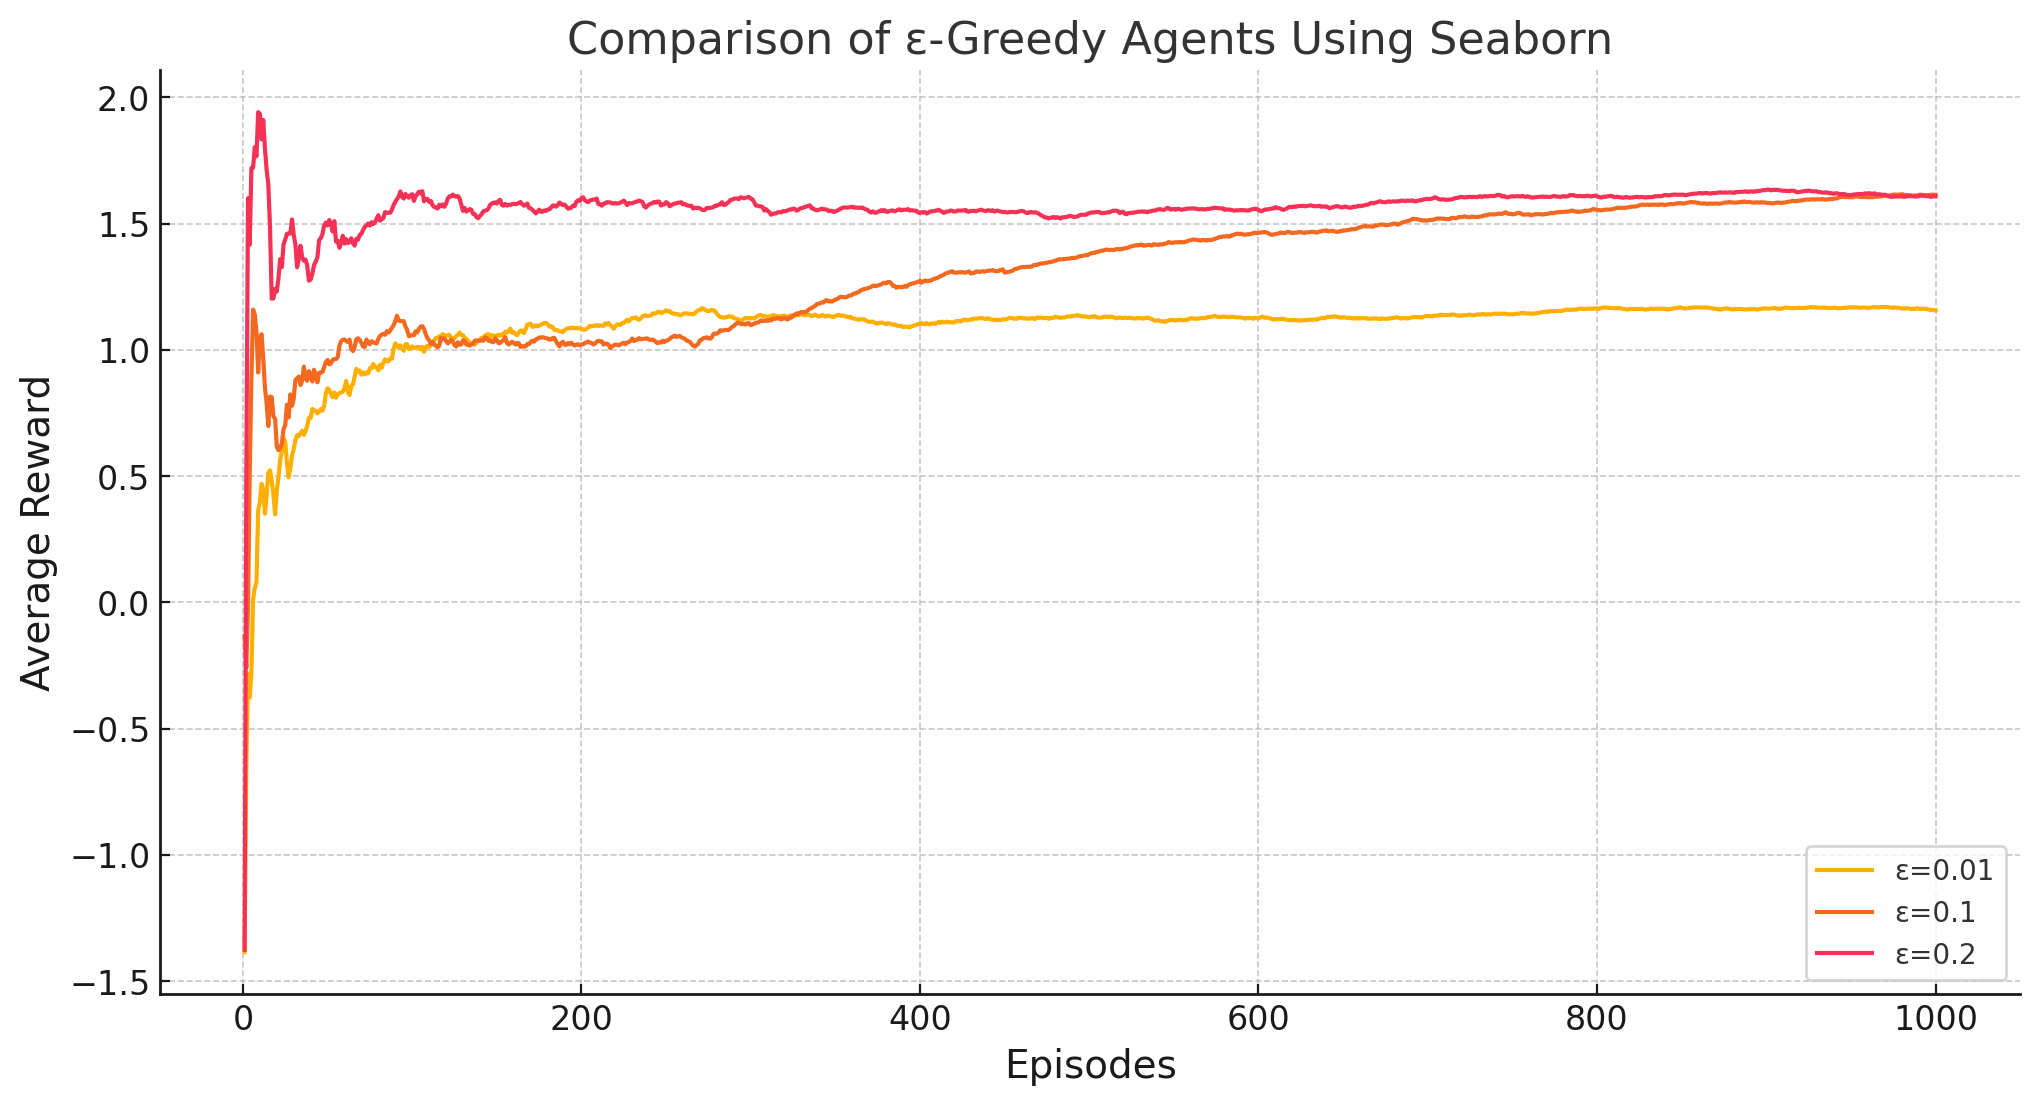
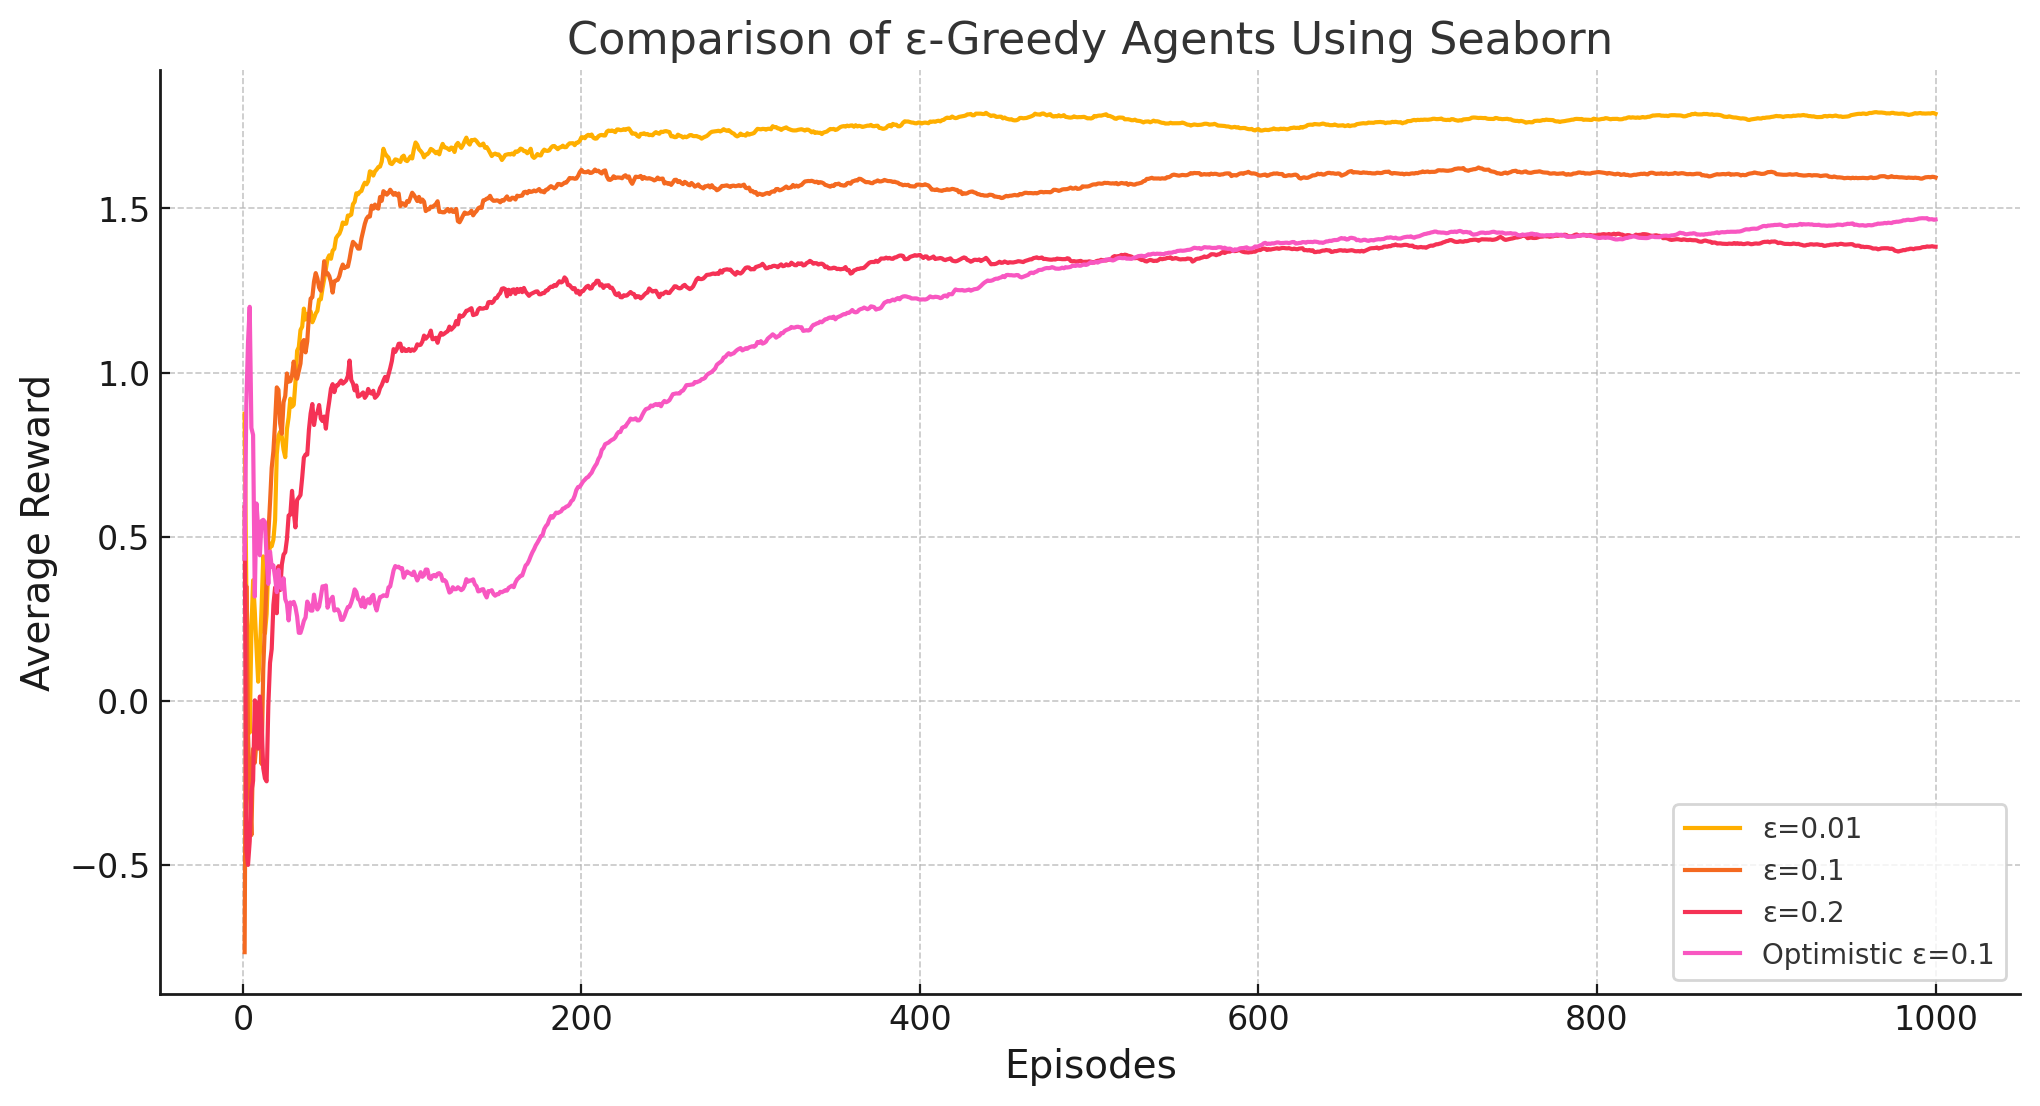
Added Optimistic Initial Valued Agent

diff --git a/visualization.py b/visualization.py
@@ -1,20 +1,22 @@
-import numpy as np
 import matplotlib.pyplot as plt
 import seaborn as sns
+import numpy as np
 
 def plot_comparison_seaborn(rewards, epsilon_values):
     
     """
-    Plot the comparison of average rewards over episodes for different epsilon values using Seaborn.
+    Plot the comparison of average rewards over episodes for different epsilon values using Seaborn, including any agents with optimistic initial values.
 
     Parameters:
         rewards (np.array): Array containing rewards for each episode for each agent.
-        epsilon_values (list): List of epsilon values used for different agents.
+        epsilon_values (list): List of epsilon values used for different agents, including an extra label for the optimistic agent.
     """
     
     plt.figure(figsize=(12, 6))
+    episodes = rewards.shape[1]
     for i in range(rewards.shape[0]):
-        sns.lineplot(np.arange(1, rewards.shape[1] + 1), np.cumsum(rewards[i]) / np.arange(1, rewards.shape[1] + 1), label=f'ε={epsilon_values[i]}')
+        label = f'ε={epsilon_values[i]}' if i < len(epsilon_values) - 1 else 'Optimistic ε=0.1'
+        sns.lineplot(np.arange(1, episodes + 1), np.cumsum(rewards[i]) / np.arange(1, episodes + 1), label=label)
     plt.xlabel('Episodes', fontsize=14)
     plt.ylabel('Average Reward', fontsize=14)
     plt.title('Comparison of ε-Greedy Agents Using Seaborn', fontsize=16)
@@ -25,24 +27,25 @@ def plot_comparison_seaborn(rewards, epsilon_values):
 def plot_color_adjusted_grouped_selections_seaborn(selections, epsilon_values):
     
     """
-    Plot the number of times each arm was selected by each agent in a grouped bar chart with adjusted colors for better distinction using Seaborn.
+    Plot the number of times each arm was selected by each agent in a grouped bar chart using Seaborn, including agents with optimistic initial values.
 
     Parameters:
         selections (np.array): Array containing the count of selections for each arm for all agents.
-        epsilon_values (list): List of ε-values used in the simulation to label the agents.
+        epsilon_values (list): List of ε-values used in the simulation to label the agents, including an extra label for the optimistic agent.
     """
     
     plt.figure(figsize=(14, 8))
-    arms = np.arange(selections.shape[1])  # Arms are the base for the x-axis
+    arms = np.arange(selections.shape[1])
     width = 0.25  # Width of each bar, optimally adjusted for visibility and contrast
     palette = sns.color_palette("Set2", len(epsilon_values))
     
     for i, agent_selections in enumerate(selections):
-        plt.bar(arms + i * width, agent_selections, width=width, label=f'ε={epsilon_values[i]}', color=palette[i])
+        label = f'ε={epsilon_values[i]}' if i < len(epsilon_values) - 1 else 'Optimistic ε=0.1'
+        plt.bar(arms + i * width, agent_selections, width=width, label=label, color=palette[i])
     
     plt.xlabel('Arms', fontsize=14)
     plt.ylabel('Number of times selected', fontsize=14)
-    plt.title('Color Adjusted Grouped Bar Chart of Arm Selections by ε-Greedy Agents', fontsize=16)
-    plt.xticks(arms + width, np.arange(selections.shape[1]))  # Centering the x-ticks between the grouped bars
+    plt.title('Grouped Bar Chart of Arm Selections by ε-Greedy Agents', fontsize=16)
+    plt.xticks(arms + width * len(epsilon_values) / 2, arms)
     plt.legend(title='Agent ε-value')
     plt.show()

diff --git a/main.py b/main.py
@@ -2,10 +2,10 @@ import numpy as np
 from agent import Agent
 from visualization import plot_comparison_seaborn, plot_color_adjusted_grouped_selections_seaborn
 
-def run_simulation(n_arms, epsilon_values, alpha, episodes, true_means):
+def run_simulation(n_arms, epsilon_values, alpha, episodes, true_means, optimistic_initial=5.0):
     
     """
-    Run the multi-armed bandit simulation with different epsilon-greedy agents.
+    Run the multi-armed bandit simulation with different epsilon-greedy agents, including an agent with optimistic initial values.
 
     Parameters:
         n_arms (int): Number of arms in the bandit.
@@ -13,17 +13,21 @@ def run_simulation(n_arms, epsilon_values, alpha, episodes, true_means):
         alpha (float): Step size for updating estimates.
         episodes (int): Number of episodes to run the simulation.
         true_means (np.array): True reward means for each arm.
+        optimistic_initial (float): Initial high estimate for the optimistic agent.
 
     Returns:
         tuple: Tuple containing arrays of rewards and selections for each agent.
     """
     
     agents = [Agent(n_arms, epsilon, alpha, true_means) for epsilon in epsilon_values]
+    agents.append(Agent(n_arms, 0.1, alpha, true_means, optimistic_initial))  # Adding an optimistic agent
     rewards = np.zeros((len(agents), episodes))
     selections = np.zeros((len(agents), n_arms))
 
     for episode in range(episodes):
+        
         for index, agent in enumerate(agents):
+            
             arm = agent.choose_arm()
             selections[index, arm] += 1
             reward = agent.get_reward(arm)
@@ -39,7 +43,10 @@ if __name__ == "__main__":
     alpha = 0.1
     episodes = 1000
     true_means = np.random.randn(n_arms)
+    optimistic_initial = 5.0  # High initial value for optimistic exploration
 
-    rewards, selections = run_simulation(n_arms, epsilon_values, alpha, episodes, true_means)
-    plot_comparison_seaborn(rewards, epsilon_values)
-    plot_color_adjusted_grouped_selections_seaborn(selections, epsilon_values)
+    rewards, selections = run_simulation(n_arms, epsilon_values, alpha, episodes, true_means, optimistic_initial)
+    
+    epsilon_labels = epsilon_values + [0.1]  # Including the optimistic agent's ε in the labels
+    plot_comparison_seaborn(rewards, epsilon_labels)
+    plot_color_adjusted_grouped_selections_seaborn(selections, epsilon_labels)

diff --git a/agent.py b/agent.py
@@ -3,23 +3,25 @@ import numpy as np
 class Agent:
     
     """
-    Represents an ε-greedy agent for the multi-armed bandit problem.
+    Represents an ε-greedy agent for the multi-armed bandit problem, with an option for optimistic initial values.
 
     Attributes:
         n_arms (int): Number of arms in the bandit.
         epsilon (float): Probability of exploring.
         alpha (float): Step size for updating estimates.
         true_means (np.array): True reward means for each arm.
-        estimates (np.array): Estimated values for each arm.
+        estimates (np.array): Estimated values for each arm, with an option for optimistic initialization.
         counts (np.array): Count of selections for each arm.
+        optimistic_initial (float): Initial value for optimistic initialization.
     """
     
-    def __init__(self, n_arms, epsilon, alpha, true_means):
+    def __init__(self, n_arms, epsilon, alpha, true_means, optimistic_initial=0.0):
+        
         self.n_arms = n_arms
         self.epsilon = epsilon
         self.alpha = alpha
         self.true_means = true_means
-        self.estimates = np.zeros(n_arms)
+        self.estimates = np.full(n_arms, optimistic_initial)  # Allow for optimistic initial values
         self.counts = np.zeros(n_arms)
 
     def choose_arm(self):
